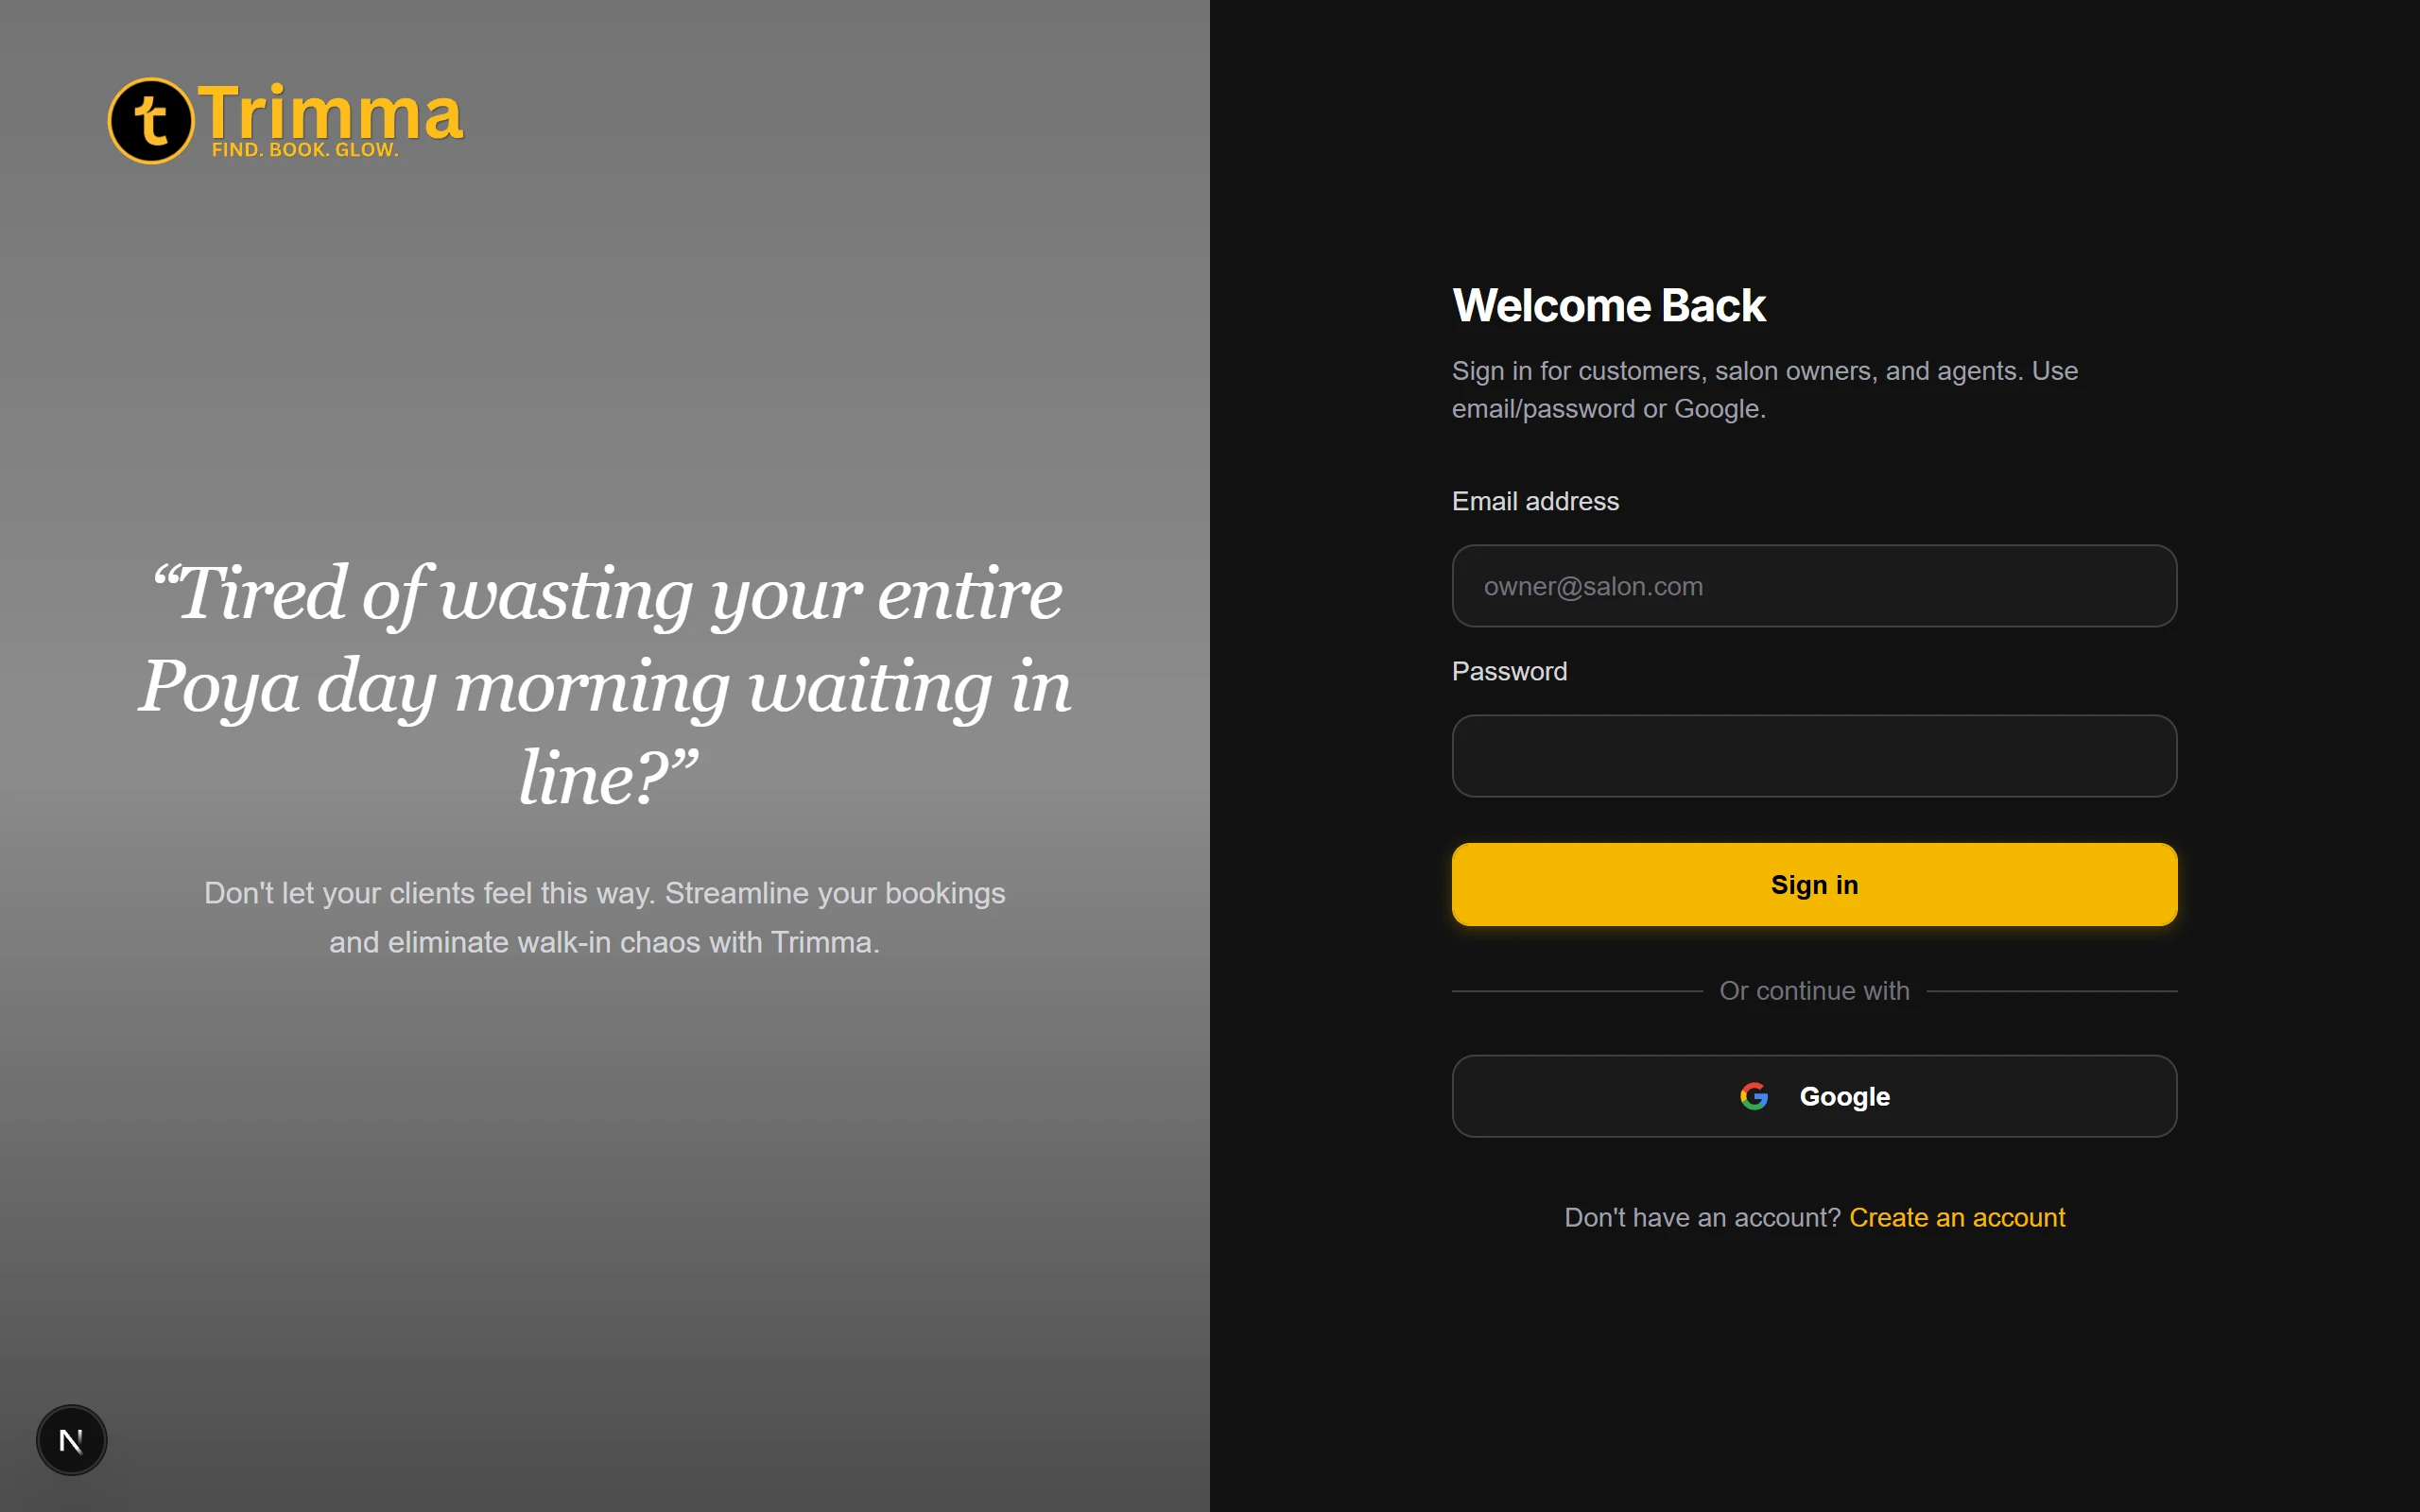
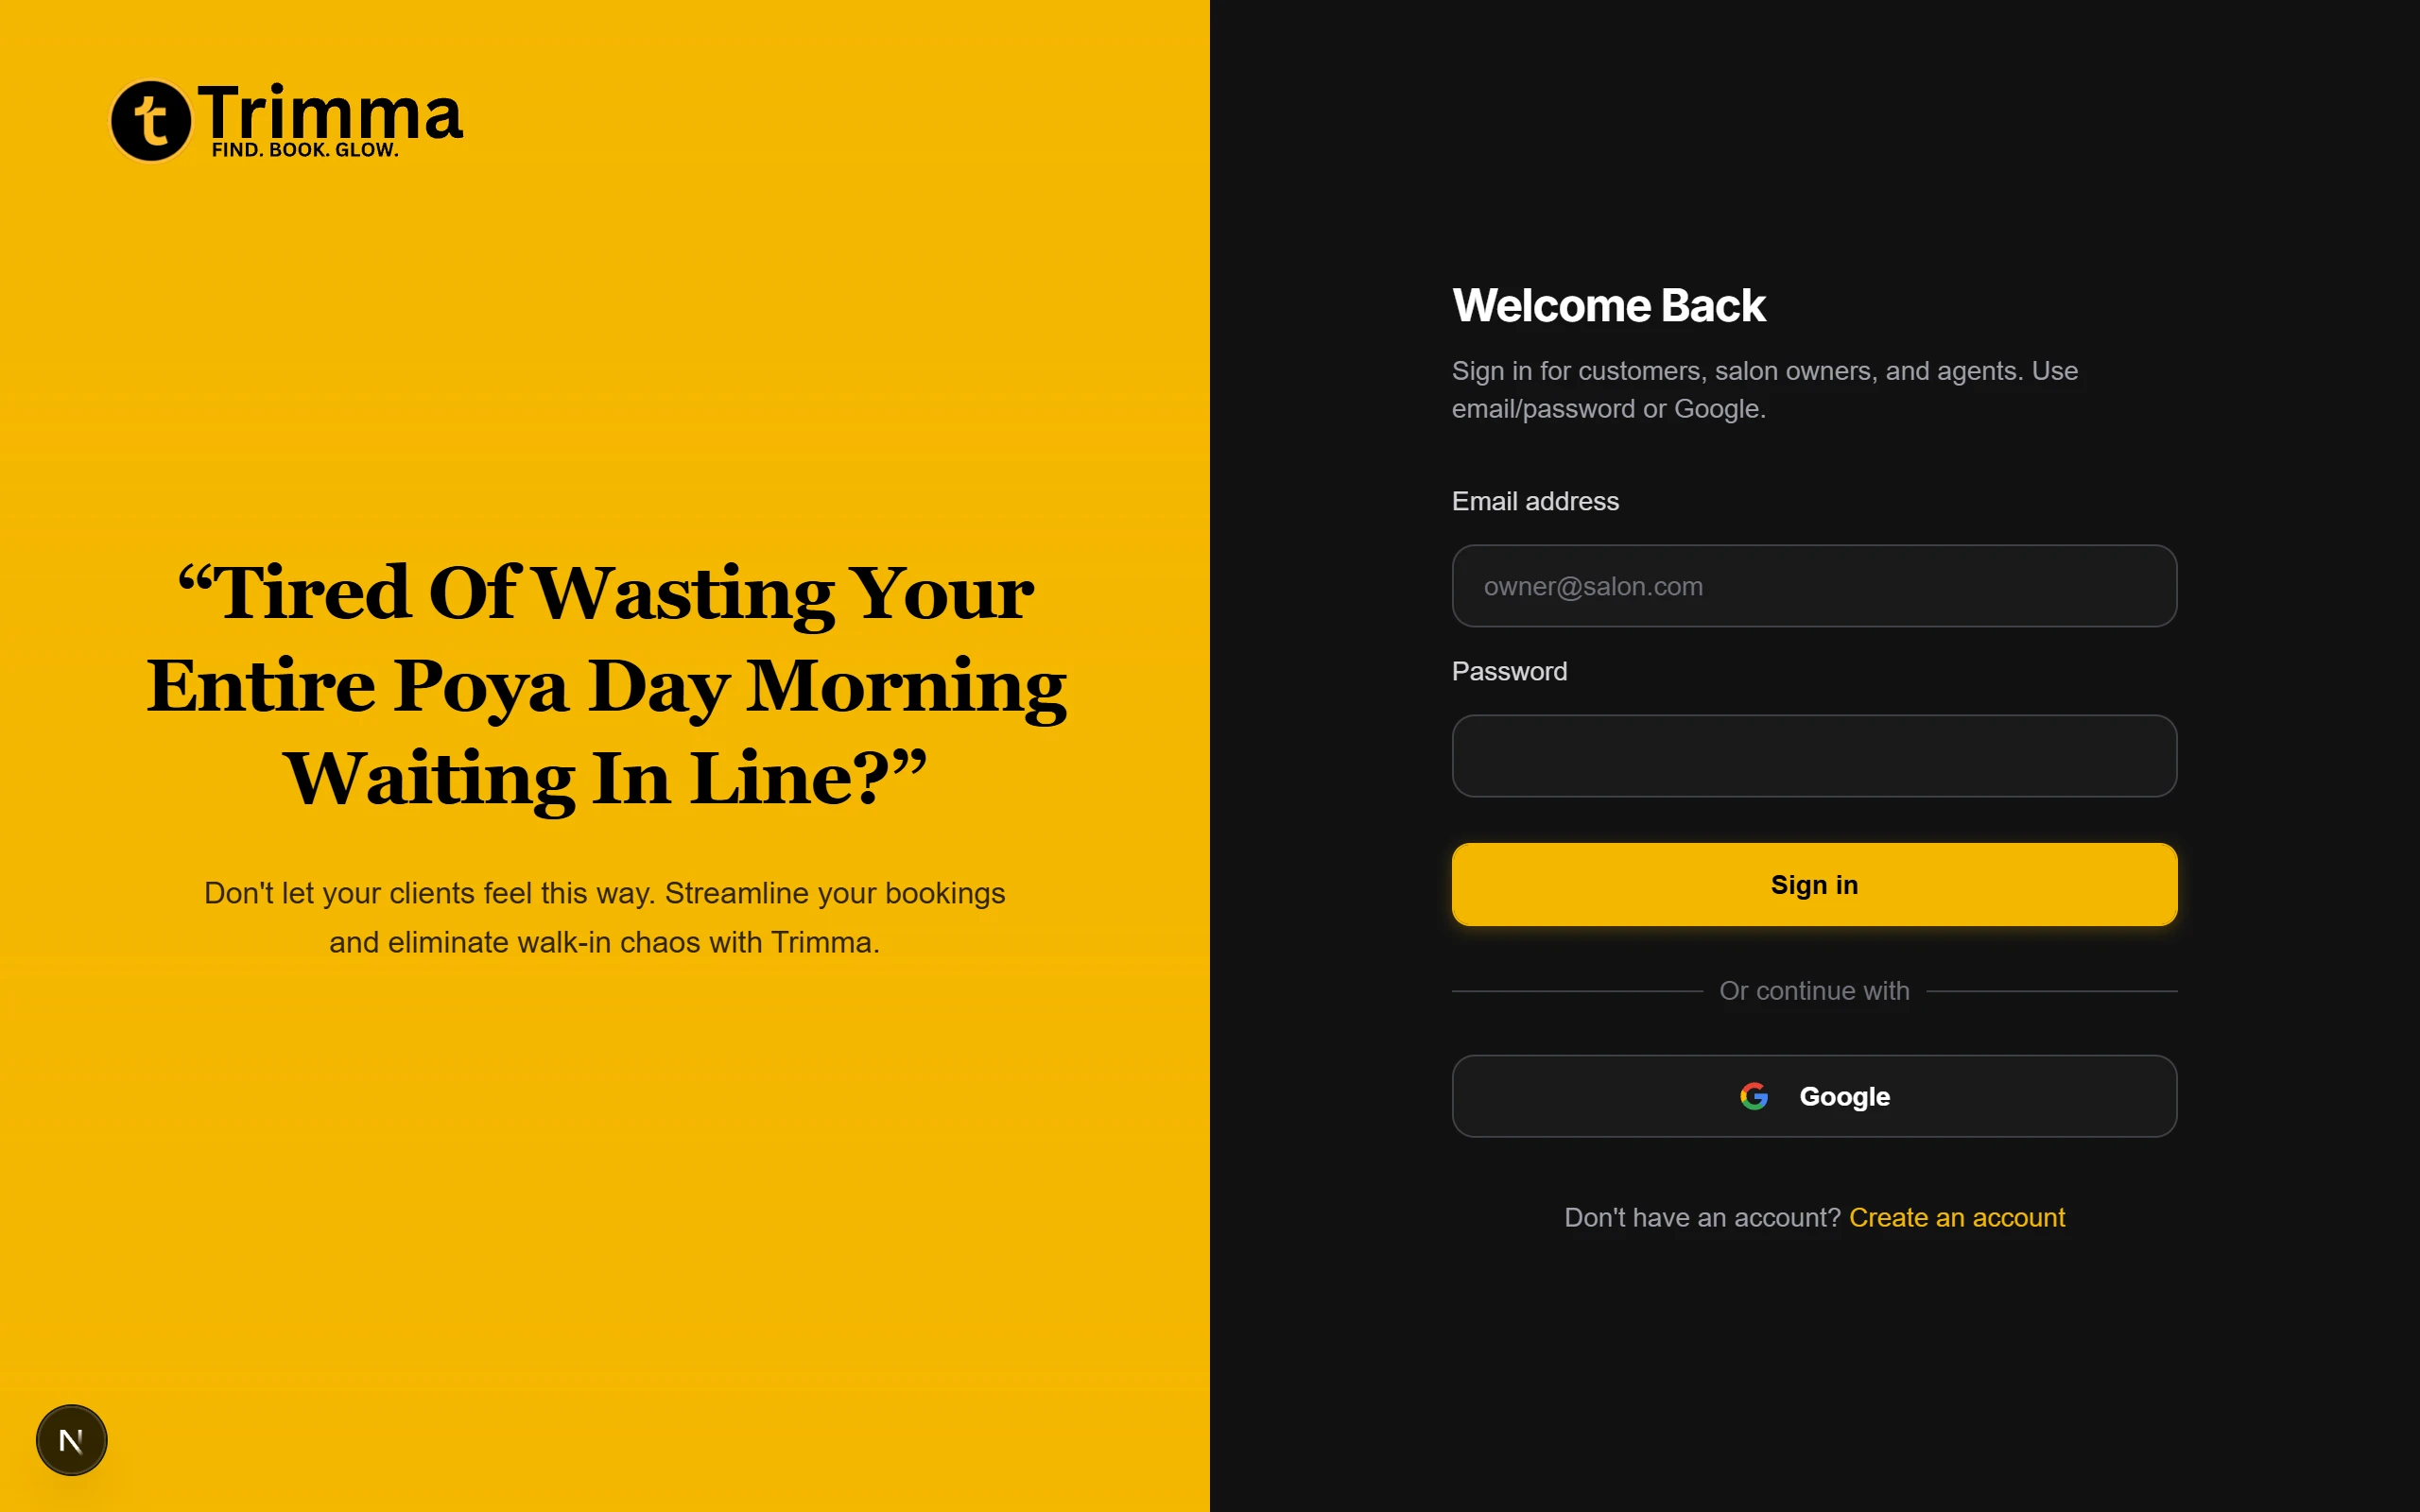
style: update auth pages marketing panel to use yellow theme and update mockup

diff --git a/apps/web/scripts/insert_colombo_territories.ts b/apps/web/scripts/insert_colombo_territories.ts
@@ -1,0 +1,33 @@
+import { createClient } from "@supabase/supabase-js";
+import * as dotenv from "dotenv";
+import * as path from "path";
+
+dotenv.config({ path: path.resolve(process.cwd(), "../../.env") });
+
+const supabaseUrl = process.env.NEXT_PUBLIC_SUPABASE_URL!;
+const supabaseKey = process.env.SUPABASE_SERVICE_ROLE_KEY!;
+
+const supabase = createClient(supabaseUrl, supabaseKey);
+
+async function run() {
+  const territories = Array.from({ length: 15 }, (_, i) => {
+    const num = i + 1;
+    return {
+      name: `Colombo ${num}`,
+      type: "zone",
+      slug: `colombo-${num}`
+    };
+  });
+
+  const { data, error } = await supabase
+    .from("territories")
+    .upsert(territories, { onConflict: "slug" });
+
+  if (error) {
+    console.error("Error inserting territories:", error);
+  } else {
+    console.log("Successfully inserted Colombo 1 - 15 territories");
+  }
+}
+
+run();

diff --git a/apps/web/src/app/login/page.tsx b/apps/web/src/app/login/page.tsx
@@ -81,32 +81,30 @@ function LoginForm() {
 
   return (
     <div className="min-h-[100dvh] grid grid-cols-1 lg:grid-cols-2">
-      {/* Left — marketing panel (design reference) */}
+      {/* Left Panel */}
       <div className="relative flex flex-col items-center justify-center px-6 py-12 sm:px-10 sm:py-16 lg:px-14 lg:py-20 min-h-[42vh] sm:min-h-[48vh] lg:min-h-[100dvh] overflow-hidden">
-        <div className="absolute inset-0" aria-hidden="true">
+        <div className="absolute inset-0 bg-[#F5B700]" aria-hidden="true">
           <img
             src={LOGIN_HERO_IMAGE}
             alt=""
-            className="h-full w-full object-cover object-center grayscale brightness-[0.42] scale-105"
+            className="h-full w-full object-cover object-center grayscale opacity-40 mix-blend-multiply scale-105"
           />
-          <div className="absolute inset-0 bg-gradient-to-b from-black/55 via-black/45 to-black/70" />
+          <div className="absolute inset-0 bg-gradient-to-b from-[#F5B700]/60 via-[#F5B700]/70 to-[#F5B700]/90" />
         </div>
 
         <Link
           href="/"
           className="absolute left-6 top-6 z-20 hover:opacity-90 transition-opacity sm:left-10 sm:top-8 lg:left-14 lg:top-10"
         >
-          <Logo inverse iconSize={40} />
+          <Logo iconSize={40} />
         </Link>
 
         <div className="relative z-10 flex w-full max-w-xl flex-col items-center text-center pt-14 sm:pt-16 lg:pt-0">
-          <blockquote className="font-serif text-[1.65rem] font-medium italic leading-[1.25] tracking-tight text-white sm:text-3xl lg:text-[2.15rem] xl:text-[2.45rem]">
-            &ldquo;Tired of wasting your entire Poya day morning waiting in line?&rdquo;
-          </blockquote>
-
-          <p className="mt-6 max-w-md text-sm leading-relaxed text-zinc-300 sm:text-base sm:leading-relaxed">
-            Don&apos;t let your clients feel this way. Streamline your bookings and eliminate walk-in
-            chaos with Trimma.
+          <h1 className="font-serif text-[1.65rem] font-bold leading-[1.25] tracking-tight text-black sm:text-3xl lg:text-[2.15rem] xl:text-[2.45rem]">
+            “Tired of wasting your entire Poya day morning waiting in line?”
+          </h1>
+          <p className="mt-6 max-w-md text-sm font-medium leading-relaxed text-black/80 sm:text-base sm:leading-relaxed">
+            Don't let your clients feel this way. Streamline your bookings and eliminate walk-in chaos with Trimma.
           </p>
         </div>
       </div>

diff --git a/apps/web/src/app/signup/page.tsx b/apps/web/src/app/signup/page.tsx
@@ -73,29 +73,29 @@ export default function SignupPage() {
 
   return (
     <div className="min-h-[100dvh] grid grid-cols-1 lg:grid-cols-2">
-      {/* Left — marketing panel (matches login design) */}
+      {/* Left Panel */}
       <div className="relative flex flex-col items-center justify-center px-6 py-12 sm:px-10 sm:py-16 lg:px-14 lg:py-20 min-h-[42vh] sm:min-h-[48vh] lg:min-h-[100dvh] overflow-hidden">
-        <div className="absolute inset-0" aria-hidden="true">
+        <div className="absolute inset-0 bg-[#F5B700]" aria-hidden="true">
           <img
             src={SIGNUP_HERO_IMAGE}
             alt=""
-            className="h-full w-full object-cover object-center grayscale brightness-[0.42] scale-105"
+            className="h-full w-full object-cover object-center grayscale opacity-40 mix-blend-multiply scale-105"
           />
-          <div className="absolute inset-0 bg-gradient-to-b from-black/55 via-black/45 to-black/70" />
+          <div className="absolute inset-0 bg-gradient-to-b from-[#F5B700]/60 via-[#F5B700]/70 to-[#F5B700]/90" />
         </div>
 
         <Link
           href="/"
           className="absolute left-6 top-6 z-20 hover:opacity-90 transition-opacity sm:left-10 sm:top-8 lg:left-14 lg:top-10"
         >
-          <Logo inverse iconSize={40} />
+          <Logo iconSize={40} />
         </Link>
 
         <div className="relative z-10 flex w-full max-w-xl flex-col items-center text-center pt-14 sm:pt-16 lg:pt-0">
-          <h1 className="font-serif text-[1.65rem] font-medium leading-[1.25] tracking-tight text-white sm:text-3xl lg:text-[2.15rem] xl:text-[2.45rem]">
+          <h1 className="font-serif text-[1.65rem] font-bold leading-[1.25] tracking-tight text-black sm:text-3xl lg:text-[2.15rem] xl:text-[2.45rem]">
             Join the premium beauty marketplace.
           </h1>
-          <p className="mt-6 max-w-md text-sm leading-relaxed text-zinc-300 sm:text-base sm:leading-relaxed">
+          <p className="mt-6 max-w-md text-sm font-medium leading-relaxed text-black/80 sm:text-base sm:leading-relaxed">
             {activeTab === 'customer' 
               ? 'Discover top-rated salons, manage bookings, and elevate your personal style.' 
               : 'Grow your business, manage staff, and get more bookings with our modern salon OS.'}